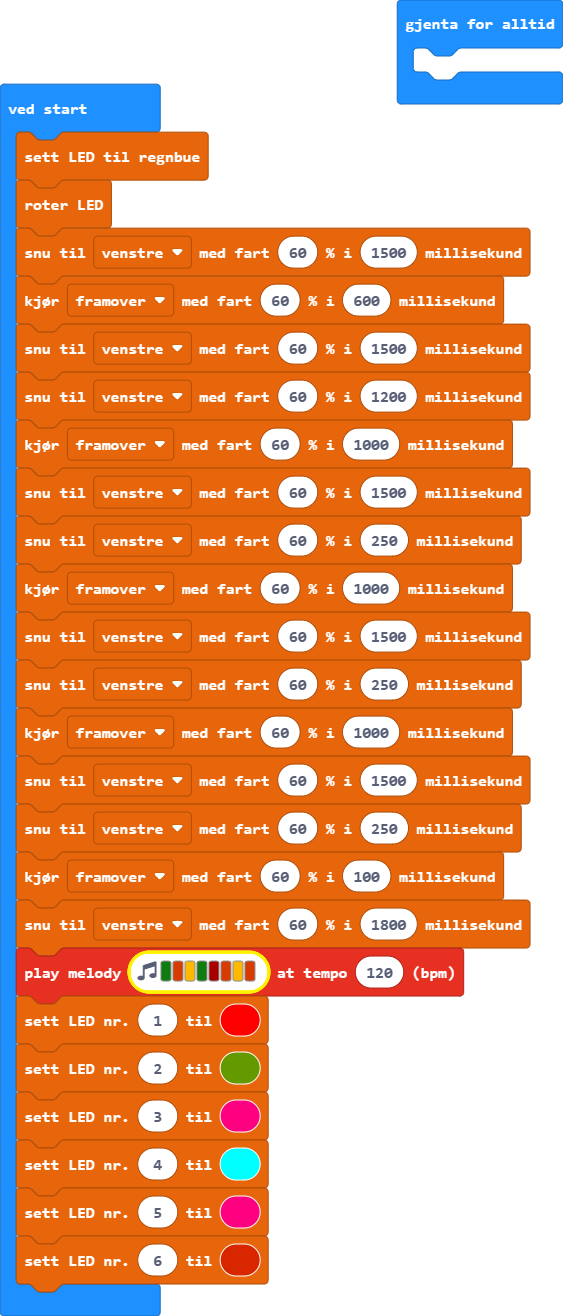
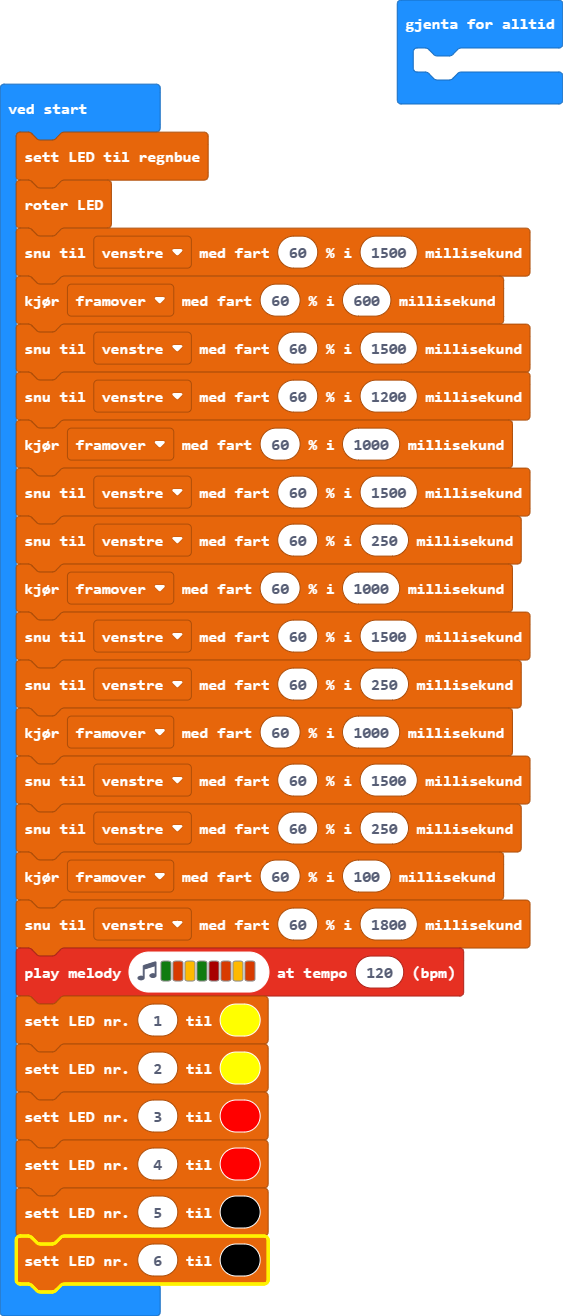
Oppdater main.blocks, main.ts

Changed region(s): [[0.3623, 0.7166, 0.4831, 0.997], [0.0, 0.9347, 0.1208, 0.997], [0.2114, 0.7166, 0.2718, 0.7789]]

diff --git a/main.ts b/main.ts
@@ -16,12 +16,12 @@ bitbot.rotatems(BBRobotDirection.Left, 60, 250)
 bitbot.goms(BBDirection.Forward, 60, 100)
 bitbot.rotatems(BBRobotDirection.Left, 60, 1800)
 music.playMelody("G B A G C5 B A B ", 120)
-bitbot.setPixelColor(1, 0xFF0000)
-bitbot.setPixelColor(2, 0x659900)
-bitbot.setPixelColor(3, 0xFF0080)
-bitbot.setPixelColor(4, 0x00FFFF)
-bitbot.setPixelColor(5, 0xFF0080)
-bitbot.setPixelColor(6, 0xD82600)
+bitbot.setPixelColor(1, 0xFFFF00)
+bitbot.setPixelColor(2, 0xFFFF00)
+bitbot.setPixelColor(3, 0xFF0000)
+bitbot.setPixelColor(4, 0xFF0000)
+bitbot.setPixelColor(5, 0x000000)
+bitbot.setPixelColor(6, 0x000000)
 basic.forever(function () {
 	
 })
